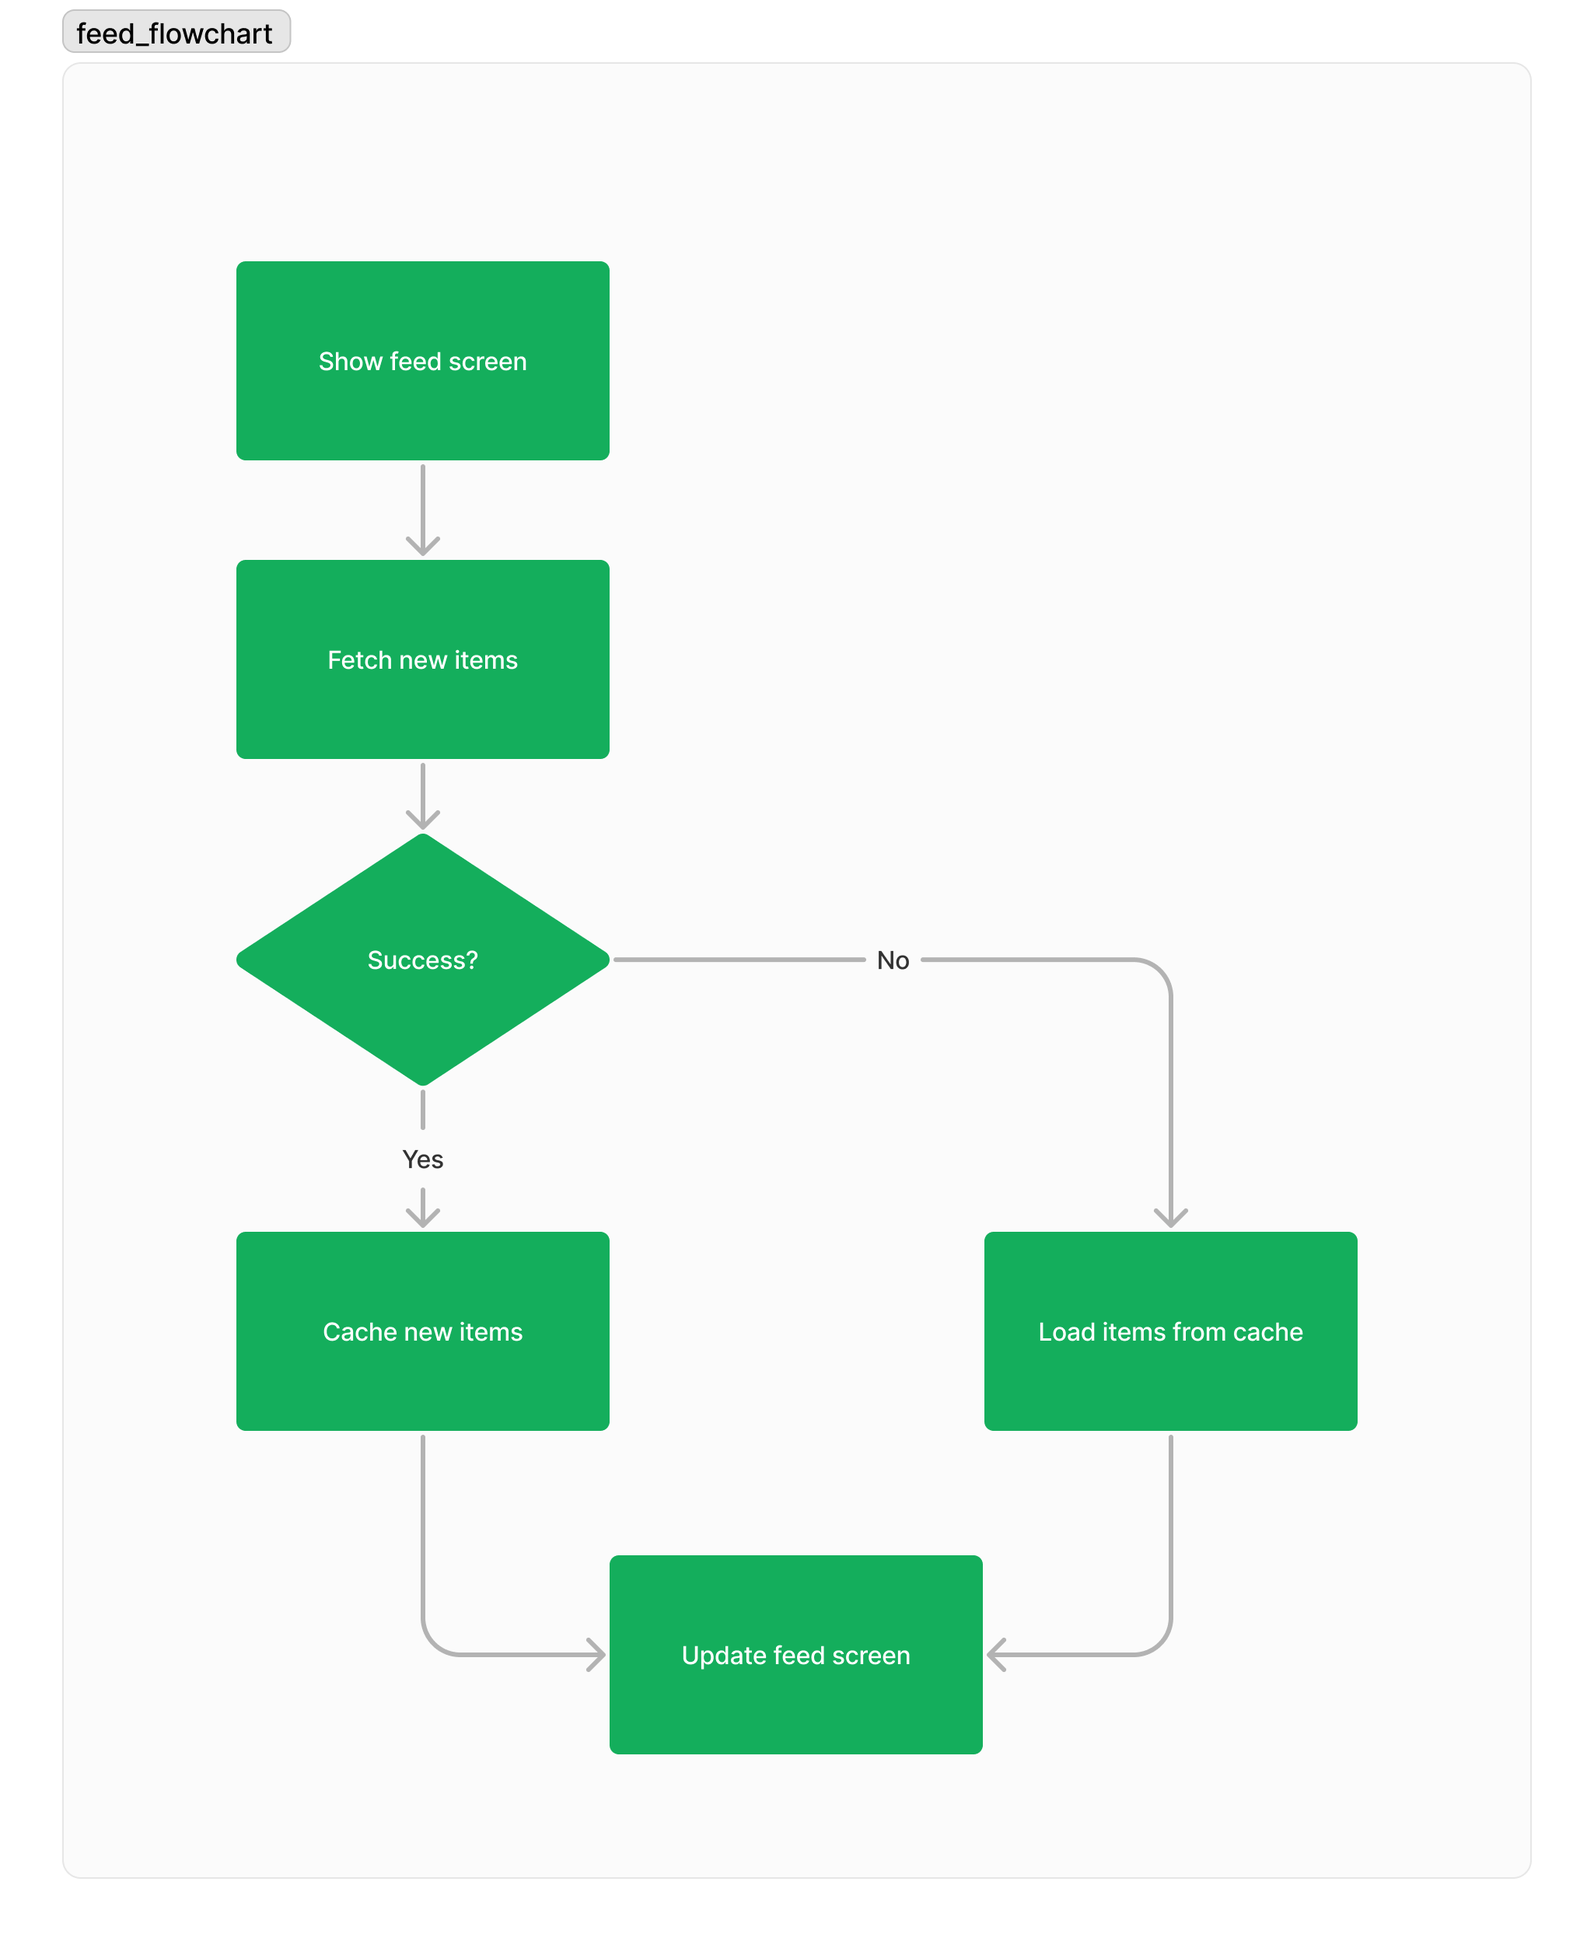
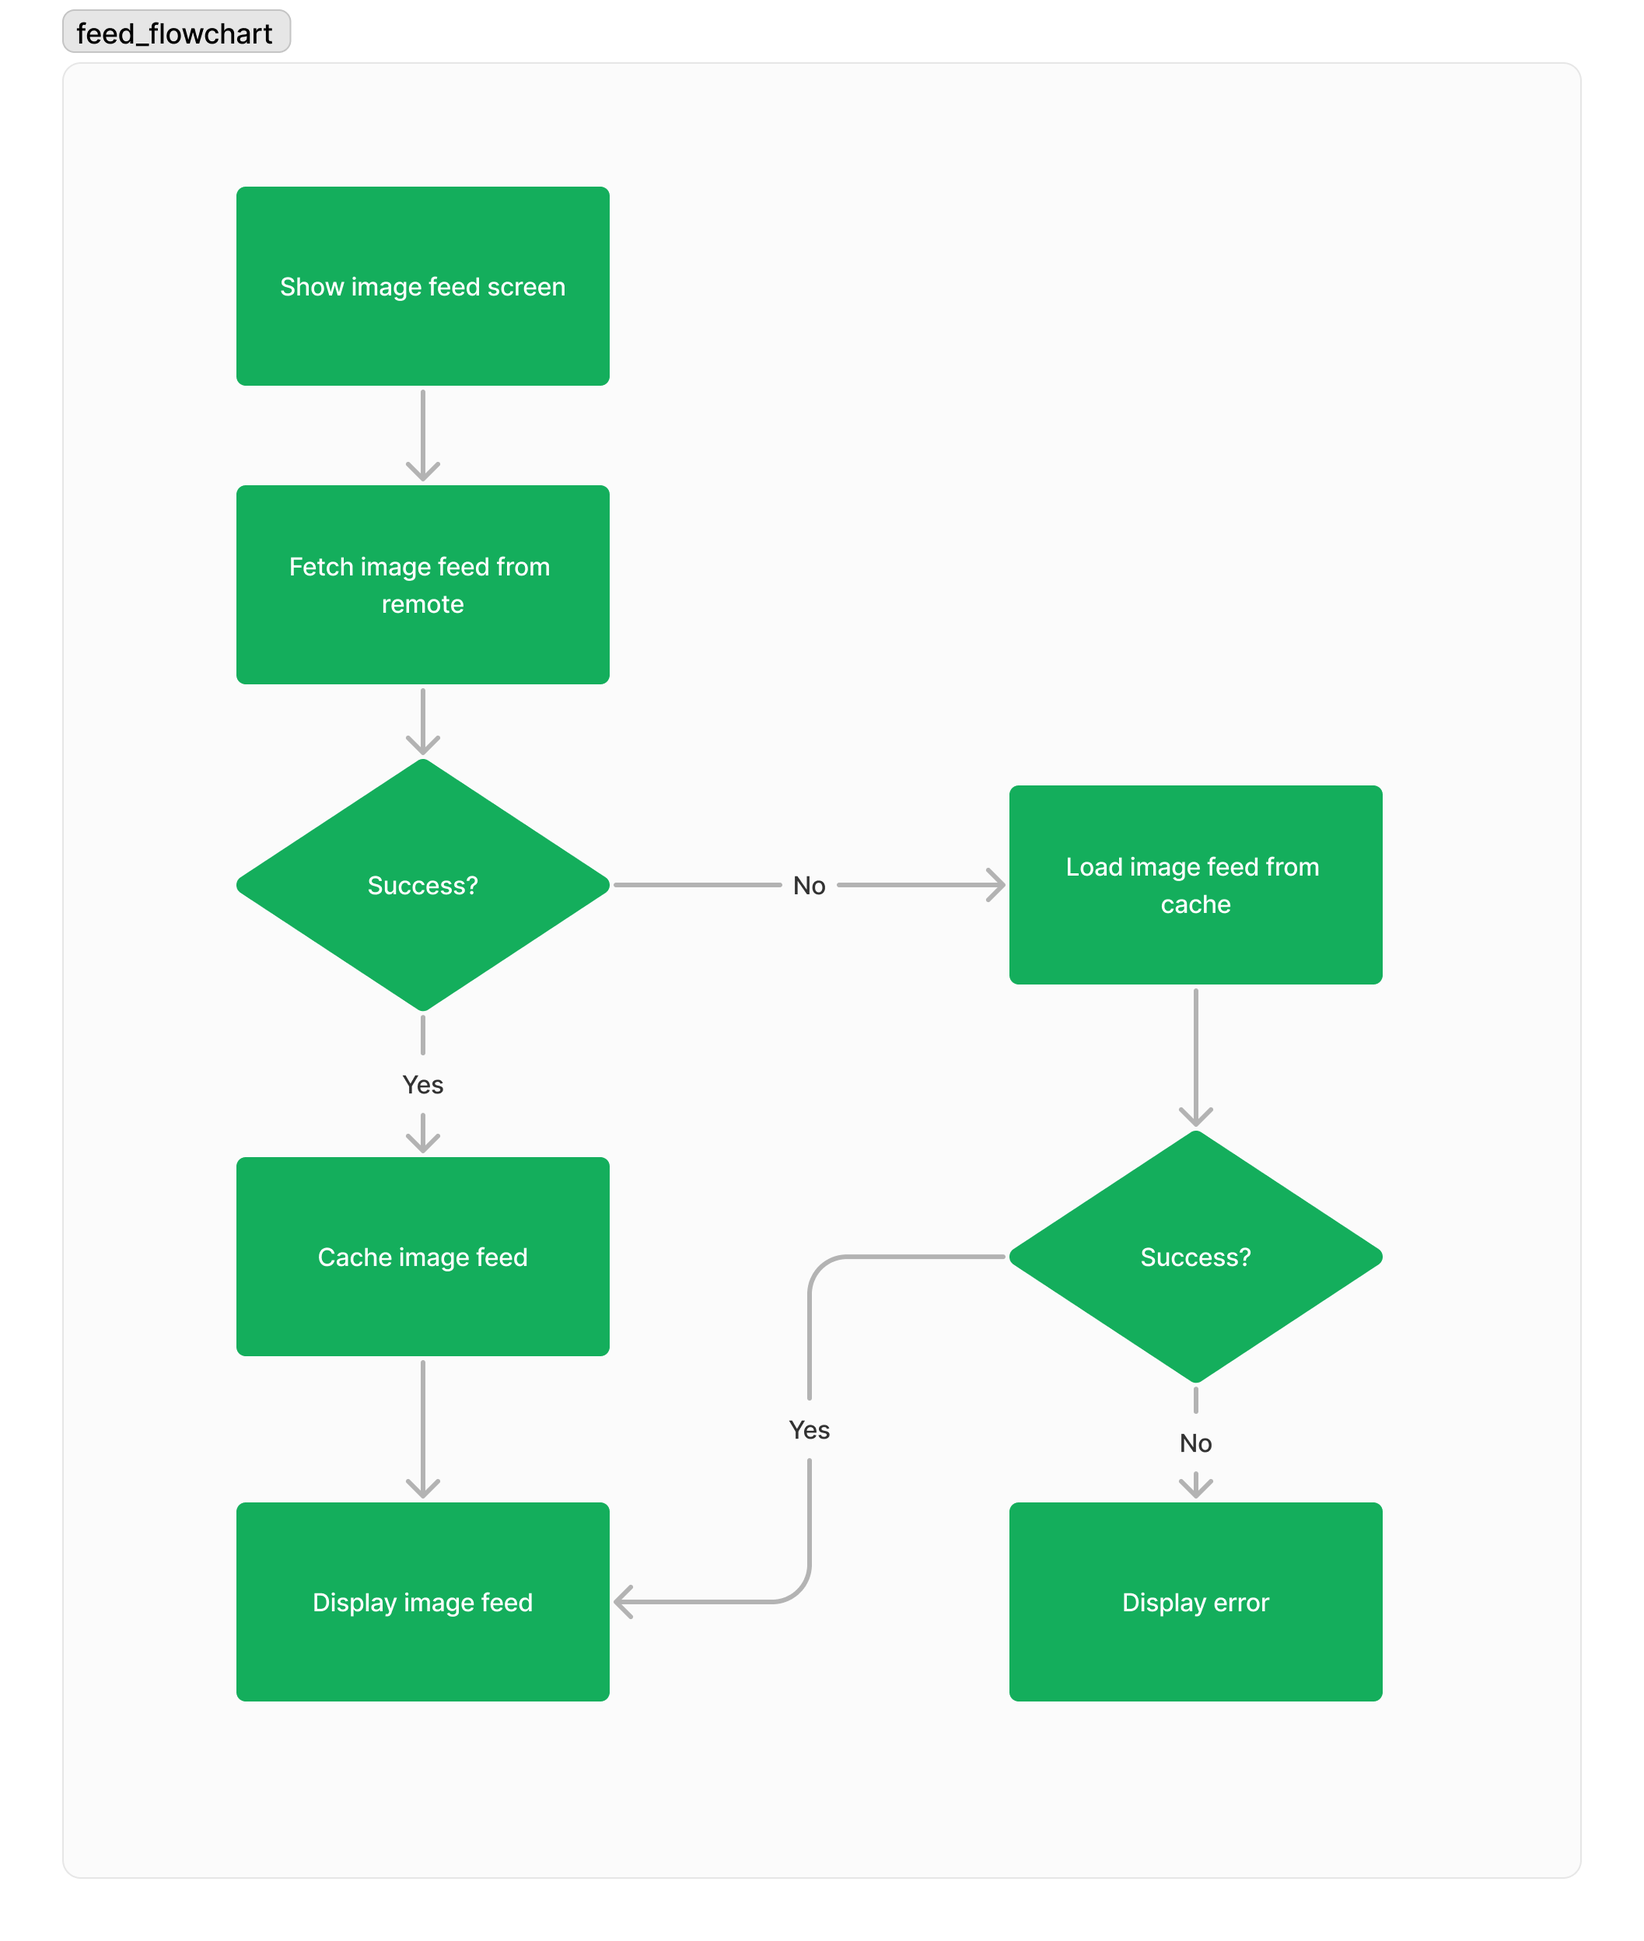
Remove references of "Items" in favor of "Images" which is a domain term used by domain experts in the specs

Changed region(s): [[0.1249, 0.0938, 0.8741, 0.9062], [0.0312, 0.0, 0.1873, 0.0312], [0.4683, 0.6562, 0.4995, 0.7188]]

diff --git a/EssentialFeedTests/Feed Cache/CacheFeedUseCaseTests.swift b/EssentialFeedTests/Feed Cache/CacheFeedUseCaseTests.swift
@@ -19,7 +19,7 @@ final class CacheFeedUseCaseTests: XCTestCase {
     func test_save_requestsCacheDeletion() {
         let (sut, store) = makeSUT()
         
-        sut.save(uniqueItems().models) { _ in }
+        sut.save(uniqueImageFeed().models) { _ in }
         XCTAssertEqual(store.receivedMessages, [.deleteCachedFeed])
     }
     
@@ -27,7 +27,7 @@ final class CacheFeedUseCaseTests: XCTestCase {
         let (sut, store) = makeSUT()
         let deletionError = anyNSError()
         
-        sut.save(uniqueItems().models) { _ in }
+        sut.save(uniqueImageFeed().models) { _ in }
         store.completeDeletion(with: deletionError)
         
         XCTAssertEqual(store.receivedMessages, [.deleteCachedFeed])
@@ -35,13 +35,13 @@ final class CacheFeedUseCaseTests: XCTestCase {
     
     func test_save_requestNewCacheInsertionWithTimestampOnSuccessfulDeletion() {
         let timestamp = Date()
-        let items = uniqueItems()
+        let feed = uniqueImageFeed()
         let (sut, store) = makeSUT(currentDate: { timestamp })
         
-        sut.save(items.models) { _ in }
+        sut.save(feed.models) { _ in }
         store.completeDeletionSuccessfully()
         
-        XCTAssertEqual(store.receivedMessages, [.deleteCachedFeed, .insert(items.local, timestamp)])
+        XCTAssertEqual(store.receivedMessages, [.deleteCachedFeed, .insert(feed.local, timestamp)])
     }
     
     func test_save_failsOnDeletionError() {
@@ -77,7 +77,7 @@ final class CacheFeedUseCaseTests: XCTestCase {
         var sut: LocalFeedLoader? = LocalFeedLoader(store: store, currentDate: Date.init)
         
         var receivedResults = [LocalFeedLoader.SaveResult]()
-        sut?.save(uniqueItems().models) { receivedResults.append($0) }
+        sut?.save(uniqueImageFeed().models) { receivedResults.append($0) }
         
         sut = nil
         store.completeDeletion(with: anyNSError())
@@ -90,7 +90,7 @@ final class CacheFeedUseCaseTests: XCTestCase {
         var sut: LocalFeedLoader? = LocalFeedLoader(store: store, currentDate: Date.init)
         
         var receivedResults = [LocalFeedLoader.SaveResult]()
-        sut?.save(uniqueItems().models) { receivedResults.append($0) }
+        sut?.save(uniqueImageFeed().models) { receivedResults.append($0) }
         
         store.completeDeletionSuccessfully()
         sut = nil
@@ -115,7 +115,7 @@ final class CacheFeedUseCaseTests: XCTestCase {
         let exp = expectation(description: "Wait for save completion")
         
         var receivedError: Error?
-        sut.save(uniqueItems().models) { error in
+        sut.save(uniqueImageFeed().models) { error in
             receivedError = error
             exp.fulfill()
         }
@@ -131,7 +131,7 @@ final class CacheFeedUseCaseTests: XCTestCase {
         
         enum ReceivedMessage: Equatable {
             case deleteCachedFeed
-            case insert([LocalFeedItem], Date)
+            case insert([LocalFeedImage], Date)
         }
         
         private(set) var receivedMessages = [ReceivedMessage]()
@@ -152,9 +152,9 @@ final class CacheFeedUseCaseTests: XCTestCase {
             deletionCompletions[index](nil)
         }
         
-        func insert(_ items: [LocalFeedItem], timestamp: Date, completion: @escaping InsertionCompletion) {
+        func insert(_ feed: [LocalFeedImage], timestamp: Date, completion: @escaping InsertionCompletion) {
             insertionsCompletions.append(completion)
-            receivedMessages.append(.insert(items, timestamp))
+            receivedMessages.append(.insert(feed, timestamp))
         }
         
         func completeInsertion(with error: Error, at index: Int = 0) {
@@ -166,13 +166,13 @@ final class CacheFeedUseCaseTests: XCTestCase {
         }
     }
     
-    private func uniqueItem() -> FeedItem {
-        return FeedItem(id: UUID(), description: "any", location: "any", imageURL: anyURL())
+    private func uniqueImage() -> FeedImage {
+        return FeedImage(id: UUID(), description: "any", location: "any", url: anyURL())
     }
     
-    private func uniqueItems() -> (models: [FeedItem], local: [LocalFeedItem]) {
-        let models = [uniqueItem(), uniqueItem()]
-        let local = models.map { LocalFeedItem(id: $0.id, description: $0.description, location: $0.location, imageURL: $0.imageURL) }
+    private func uniqueImageFeed() -> (models: [FeedImage], local: [LocalFeedImage]) {
+        let models = [uniqueImage(), uniqueImage()]
+        let local = models.map { LocalFeedImage(id: $0.id, description: $0.description, location: $0.location, url: $0.url) }
         
         return (models, local)
     }

diff --git a/EssentialFeedEndToEndAPITests/EssentialFeedEndToEndAPITests.swift b/EssentialFeedEndToEndAPITests/EssentialFeedEndToEndAPITests.swift
@@ -13,16 +13,16 @@ final class EssentialFeedAPIEndToEndTests: XCTestCase {
     func test_endToEndTestServerGETFeedResult_matchesFixedTestAccountData() {
         
         switch getFeedResults() {
-        case let .success(items)?:
-            XCTAssertEqual(items.count, 8, "Expected 8 items in the test account feed")
-            XCTAssertEqual(items[0], expectedItem(at: 0))
-            XCTAssertEqual(items[1], expectedItem(at: 1))
-            XCTAssertEqual(items[2], expectedItem(at: 2))
-            XCTAssertEqual(items[3], expectedItem(at: 3))
-            XCTAssertEqual(items[4], expectedItem(at: 4))
-            XCTAssertEqual(items[5], expectedItem(at: 5))
-            XCTAssertEqual(items[6], expectedItem(at: 6))
-            XCTAssertEqual(items[7], expectedItem(at: 7))
+        case let .success(imageFeed)?:
+            XCTAssertEqual(imageFeed.count, 8, "Expected 8 images in the test account image feed")
+            XCTAssertEqual(imageFeed[0], expectedImage(at: 0))
+            XCTAssertEqual(imageFeed[1], expectedImage(at: 1))
+            XCTAssertEqual(imageFeed[2], expectedImage(at: 2))
+            XCTAssertEqual(imageFeed[3], expectedImage(at: 3))
+            XCTAssertEqual(imageFeed[4], expectedImage(at: 4))
+            XCTAssertEqual(imageFeed[5], expectedImage(at: 5))
+            XCTAssertEqual(imageFeed[6], expectedImage(at: 6))
+            XCTAssertEqual(imageFeed[7], expectedImage(at: 7))
             
         case let .failure(error)?:
             XCTFail("Expected successful feed result, got \(error) instead")
@@ -53,12 +53,12 @@ final class EssentialFeedAPIEndToEndTests: XCTestCase {
         return receivedResult
     }
     
-    private func expectedItem(at index: Int) -> FeedItem {
-        return FeedItem(
+    private func expectedImage(at index: Int) -> FeedImage {
+        return FeedImage(
             id: id(at: index),
             description: description(at: index),
             location: location(at: index),
-            imageURL: imageURL(at: index))
+            url: imageURL(at: index))
     }
     
     private func id(at index: Int) -> UUID {

diff --git a/EssentialFeed/Feed Cache/LocalFeedLoader.swift b/EssentialFeed/Feed Cache/LocalFeedLoader.swift
@@ -19,20 +19,20 @@ public final class LocalFeedLoader {
     }
     
     
-    public func save (_ items: [FeedItem], completion: @escaping (SaveResult) -> Void) {
+    public func save (_ feed: [FeedImage], completion: @escaping (SaveResult) -> Void) {
         store.deleteCachedFeed { [weak self] error in
             guard let self = self else { return }
             
             if let cacheDeletionError = error {
                 completion(cacheDeletionError)
             } else {
-                self.cache(items, with: completion)
+                self.cache(feed, with: completion)
             }
         }
     }
     
-    private func cache(_ items: [FeedItem], with completion: @escaping (SaveResult) -> Void) {
-        store.insert(items.toLocal(), timestamp: currentDate()) { [weak self] error in
+    private func cache(_ feed: [FeedImage], with completion: @escaping (SaveResult) -> Void) {
+        store.insert(feed.toLocal(), timestamp: currentDate()) { [weak self] error in
             guard self != nil else { return }
             
             completion(error)
@@ -40,8 +40,8 @@ public final class LocalFeedLoader {
     }
 }
 
-private extension Array where Element == FeedItem {
-    func toLocal() -> [LocalFeedItem] {
-        return map { LocalFeedItem(id: $0.id, description: $0.description, location: $0.location, imageURL: $0.imageURL) }
+private extension Array where Element == FeedImage {
+    func toLocal() -> [LocalFeedImage] {
+        return map { LocalFeedImage(id: $0.id, description: $0.description, location: $0.location, url: $0.url) }
     }
 }

diff --git a/EssentialFeed/Feed API/RemoteFeedLoader.swift b/EssentialFeed/Feed API/RemoteFeedLoader.swift
@@ -37,7 +37,7 @@ public final class RemoteFeedLoader: FeedLoader {
     
     private static func map(_ data: Data, from response: HTTPURLResponse) -> Result {
         do {
-            let items = try FeedItemsMapper.map(data, from: response)
+            let items = try FeedImagesMapper.map(data, from: response)
             return .success(items.toModels())
         } catch {
             return .failure(error)
@@ -46,7 +46,7 @@ public final class RemoteFeedLoader: FeedLoader {
 }
 
 private extension Array where Element == RemoteFeedItem {
-    func toModels() -> [FeedItem] {
-        return map { FeedItem(id: $0.id, description: $0.description, location: $0.location, imageURL: $0.image) }
+    func toModels() -> [FeedImage] {
+        return map { FeedImage(id: $0.id, description: $0.description, location: $0.location, url: $0.image) }
     }
 }

diff --git a/EssentialFeed/Feed Cache/LocalFeedImage.swift b/EssentialFeed/Feed Cache/LocalFeedImage.swift
@@ -1,5 +1,5 @@
 //
-//  LocalFeedItem.swift
+//  LocalFeedImage.swift
 //  EssentialFeed
 //
 //  Created by Mazvydas Katinas on 11/09/2023.
@@ -7,17 +7,17 @@
 
 import Foundation
 
-public struct LocalFeedItem: Equatable {
+public struct LocalFeedImage: Equatable {
     public let id: UUID
     public let description: String?
     public let location: String?
-    public let imageURL: URL
+    public let url: URL
     
-    public init(id: UUID, description: String?, location: String?, imageURL: URL) {
+    public init(id: UUID, description: String?, location: String?, url: URL) {
         
         self.id = id
         self.description = description
         self.location = location
-        self.imageURL = imageURL
+        self.url = url
     }
 }

diff --git a/EssentialFeed/FeedFeature/FeedImage.swift b/EssentialFeed/FeedFeature/FeedImage.swift
@@ -1,5 +1,5 @@
 //
-//  FeedItem.swift
+// FeedImage.swift
 //  EssentialFeed
 //
 //  Created by Mazvydas Katinas on 09/08/2023.
@@ -7,17 +7,17 @@
 
 import Foundation
 
-public struct FeedItem: Equatable {
+public struct FeedImage: Equatable {
     public let id: UUID
     public let description: String?
     public let location: String?
-    public let imageURL: URL
+    public let url: URL
     
-    public init(id: UUID, description: String?, location: String?, imageURL: URL) {
+    public init(id: UUID, description: String?, location: String?, url: URL) {
         
         self.id = id
         self.description = description
         self.location = location
-        self.imageURL = imageURL
+        self.url = url
     }
 }

diff --git a/EssentialFeedTests/Feed API/LoadFeedFromRemoteUseCaseTests.swift b/EssentialFeedTests/Feed API/LoadFeedFromRemoteUseCaseTests.swift
@@ -135,8 +135,8 @@ final class LoadFeedFromRemoteUseCaseTests: XCTestCase {
         return .failure(error)
     }
     
-    private func makeItem(id: UUID, description: String? = nil, location: String? = nil, imageURL: URL) -> (model: FeedItem, json: [String: Any]) {
-            let item = FeedItem(id: id, description: description, location: location, imageURL: imageURL)
+    private func makeItem(id: UUID, description: String? = nil, location: String? = nil, imageURL: URL) -> (model: FeedImage, json: [String: Any]) {
+            let item = FeedImage(id: id, description: description, location: location, url: imageURL)
 
             let json = [
                 "id": id.uuidString,

diff --git a/EssentialFeed/Feed Cache/FeedStore.swift b/EssentialFeed/Feed Cache/FeedStore.swift
@@ -12,5 +12,5 @@ public protocol FeedStore {
     typealias InsertionCompletion = (Error?) -> Void
     
     func deleteCachedFeed(completion: @escaping DeletionCompletion)
-    func insert(_ items: [LocalFeedItem], timestamp: Date, completion: @escaping InsertionCompletion)
+    func insert(_ feed: [LocalFeedImage], timestamp: Date, completion: @escaping InsertionCompletion)
 }

diff --git a/EssentialFeed/Feed API/FeedItemsMapper.swift b/EssentialFeed/Feed API/FeedItemsMapper.swift
@@ -1,5 +1,5 @@
 //
-//  FeedItemsMapper.swift
+// FeedImagesMapper.swift
 //  EssentialFeed
 //
 //  Created by Mazvydas Katinas on 16/08/2023.
@@ -7,7 +7,7 @@
 
 import Foundation
 
-internal final class FeedItemsMapper {
+internal final class FeedImagesMapper {
     
     private struct Root: Decodable {
         let items: [RemoteFeedItem]

diff --git a/EssentialFeed/FeedFeature/FeedLoader.swift b/EssentialFeed/FeedFeature/FeedLoader.swift
@@ -8,7 +8,7 @@
 import Foundation
 
 public enum LoadFeedResult {
-    case success([FeedItem])
+    case success([FeedImage])
     case failure(Error)
 }
 

diff --git a/README.md b/README.md
@@ -57,11 +57,11 @@
  - URL
 
  #### Primary course (happy path):
- 1. Execute "Load Feed Items" command with above data.
+ 1. Execute "Load Image Feed" command with above data.
  2. System downloads data from the URL.
  3. System validates downloaded data.
- 4. System creates feed items from valid data.
- 5. System delivers feed items.
+ 4. System creates image feed from valid data.
+ 5. System delivers image feed.
 
  #### Invalid data – error course (sad path):
  1. System delivers invalid data error.
@@ -86,21 +86,21 @@
 
  #### Expired cache course (sad path): 
  1. System deletes cache.
- 2. System delivers no feed items.
+ 2. System delivers no feed images.
 
  #### Empty cache course (sad path): 
- 1. System delivers no feed items.
+ 1. System delivers no feed images.
 
 
  ### Save Feed Items Use Case
 
  #### Data:
- - Feed items
+ - Image Feed
 
  #### Primary course (happy path):
- 1. Execute "Save Feed Items" command with above data.
+ 1. Execute "Save Image Feed" command with above data.
  2. System deletes old cache data.
- 3. System encodes feed items.
+ 3. System encodes image feed.
  4. System timestamps the new cache.
  5. System saves new cache data.
  6. System delivers success message.
@@ -121,14 +121,14 @@
 
  ## Model Specs
 
- ### Feed Item
+ ### Feed Image
 
  | Property      | Type                |
  |---------------|---------------------|
  | `id`          | `UUID`              |
  | `description` | `String` (optional) |
  | `location`    | `String` (optional) |
- | `imageURL`    | `URL`               |
+ | `url`         | `URL`               |
 
  ### Payload contract
 
